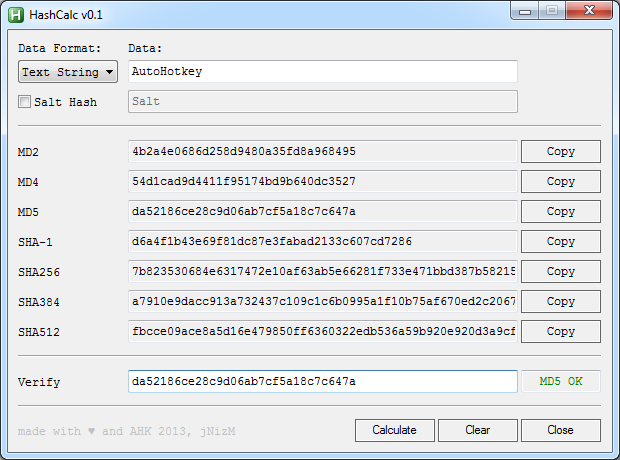
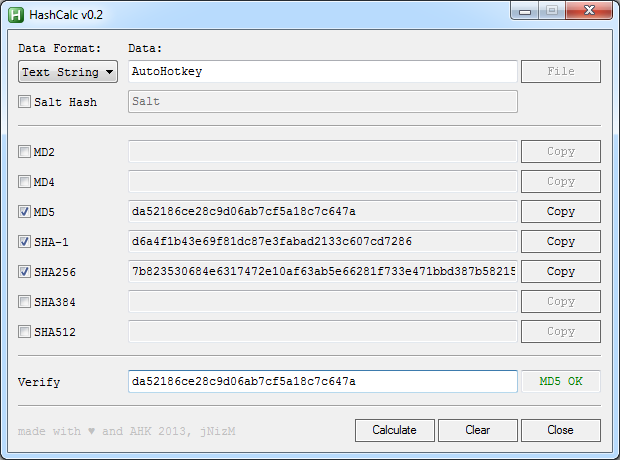
Update to v0.2
Update README
Update Screenshot
Update src\HashCalc

diff --git a/README.md b/README.md
@@ -1,9 +1,9 @@
 # HashCalc by jNizM
-Calculate hash from string via AutoHotkey
+Calculate hash from string or file via AutoHotkey
 
 
 ## Features
-* Generate hash value from string
+* Generate hash value from string or file
 * Secure-Salted function
 * Verify hash
 
@@ -21,11 +21,12 @@ Calculate hash from string via AutoHotkey
 
 
 ## Info
-* Version: v0.1
+* Version: v0.2
 * URL: [AHK Thread](http://ahkscript.org/boards/viewtopic.php?f=6&t=87)
 
 
 ## Changelog
+* 0.2 | Added HashFromFile(), Checkbox
 * 0.1 | First Release
 
 
